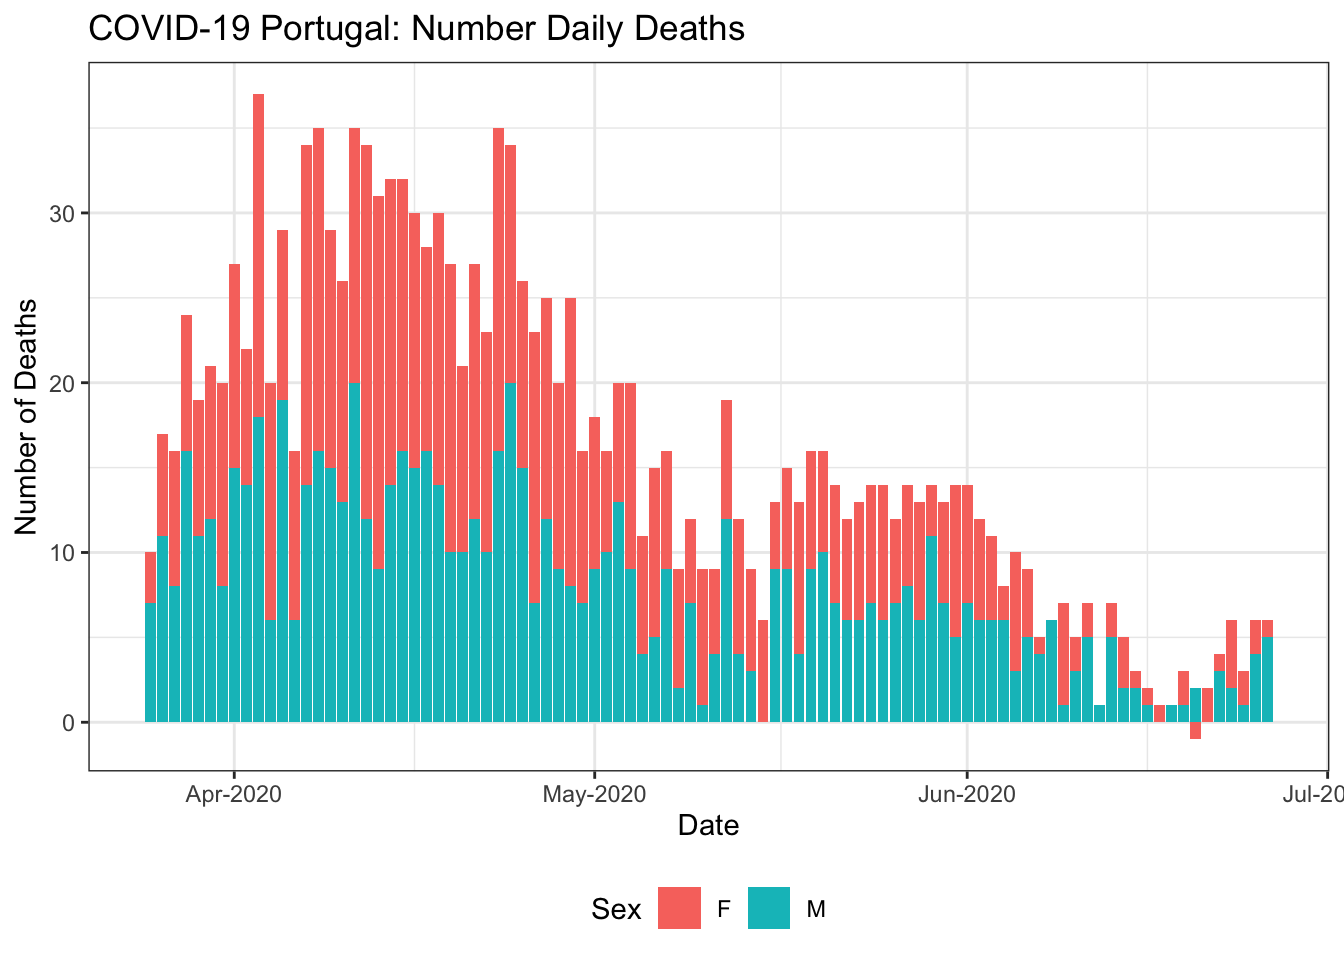
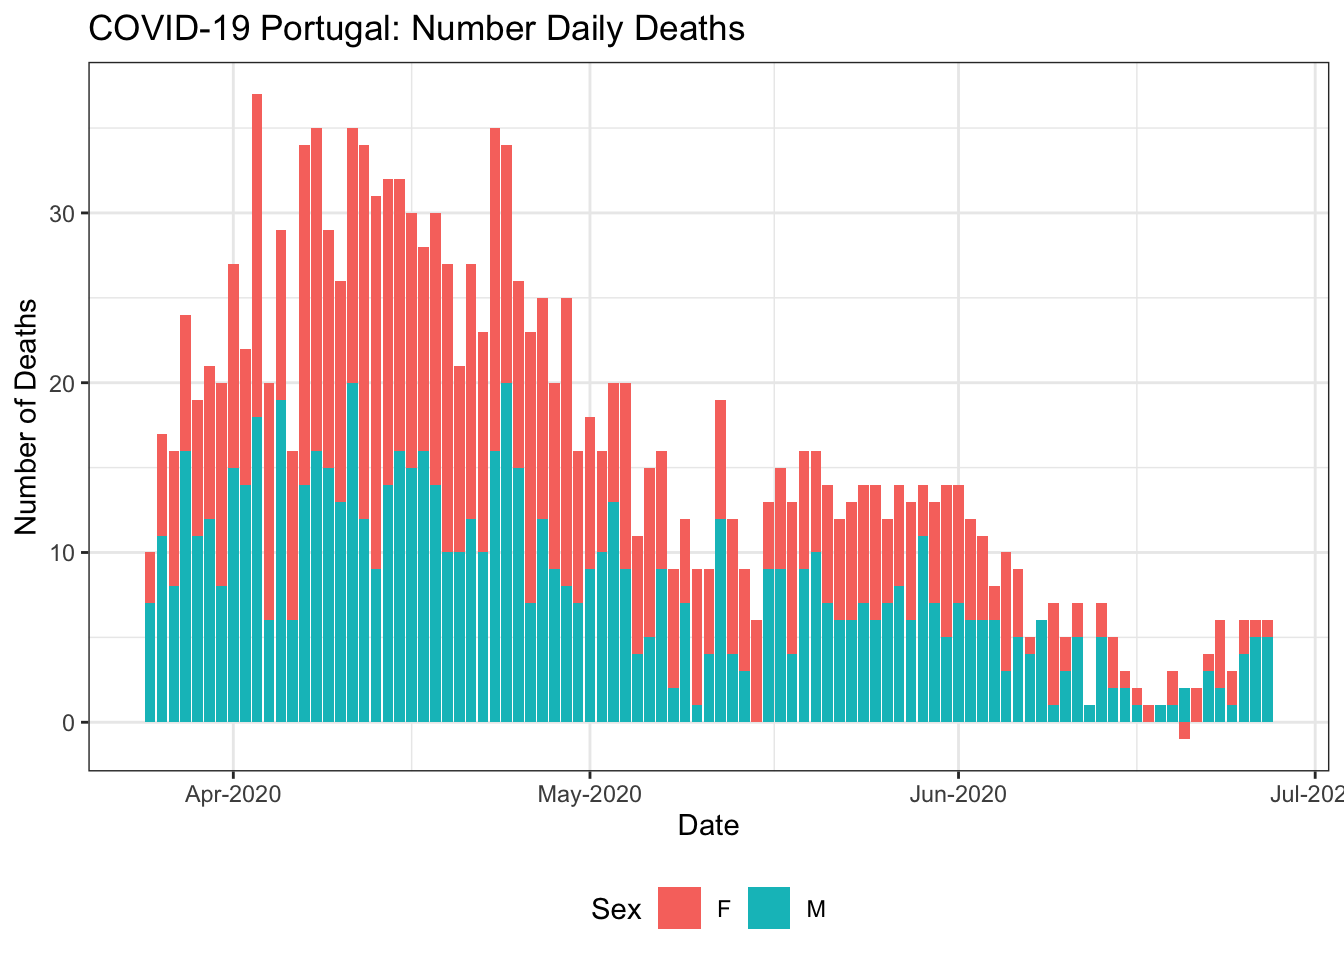
Data Update & Re-build README.Rmd

diff --git a/README.md b/README.md
@@ -1,13 +1,13 @@
 
 # Portuguese COVID-19 Data
 
-**Last updated:** Fri 26 Jun 2020 (15:24:57 UTC \[+0000\])
+**Last updated:** Sat 27 Jun 2020 (15:23:50 UTC \[+0000\])
 
 ## Data Meta Information
 
   - **Start date:** 2020-02-26
-  - **End Date:** 2020-06-26
-  - **Number of days:** 122
+  - **End Date:** 2020-06-27
+  - **Number of days:** 123
 
 ## Source
 
@@ -48,7 +48,7 @@ theme_set(theme_bw())
 # Read in data as a data.frame and data.table object.
 CV <- fread(here("data", "covid19pt_DSSG_Long.csv"))
 str(CV)
-## Classes 'data.table' and 'data.frame':   10248 obs. of  12 variables:
+## Classes 'data.table' and 'data.frame':   10332 obs. of  12 variables:
 ##  $ data       : chr  "2020-02-26" "2020-02-27" "2020-02-28" "2020-02-29" ...
 ##  $ origVars   : chr  "cadeias_transmissao" "cadeias_transmissao" "cadeias_transmissao" "cadeias_transmissao" ...
 ##  $ origType   : chr  "cadeias" "cadeias" "cadeias" "cadeias" ...
@@ -105,7 +105,7 @@ CV[origType=="confirmados" & ageGrp=="" & region!="Portugal"] %>%
     y = "Number of Confirmed Cases",
     colour = "Region")
 ## Warning: Transformation introduced infinite values in continuous y-axis
-## Warning: Removed 106 row(s) containing missing values (geom_path).
+## Warning: Removed 107 row(s) containing missing values (geom_path).
 ```
 
 <img src="README_figs/README-casesbyRegion-1.png" width="672" />
@@ -124,9 +124,9 @@ CV[dayChange<0][
 ##   4: 2020-03-24 confirmados_40_49_f   224        -2
 ##   5: 2020-03-19 confirmados_60_69_f    35       -14
 ##  ---                                               
-## 284: 2020-06-08          vigilancia 28791      -521
-## 285: 2020-06-13          vigilancia 30655      -124
-## 286: 2020-06-17          vigilancia 30289      -521
-## 287: 2020-06-19          vigilancia 29046     -1380
-## 288: 2020-06-23          vigilancia 30248      -708
+## 286: 2020-06-08          vigilancia 28791      -521
+## 287: 2020-06-13          vigilancia 30655      -124
+## 288: 2020-06-17          vigilancia 30289      -521
+## 289: 2020-06-19          vigilancia 29046     -1380
+## 290: 2020-06-23          vigilancia 30248      -708
 ```
